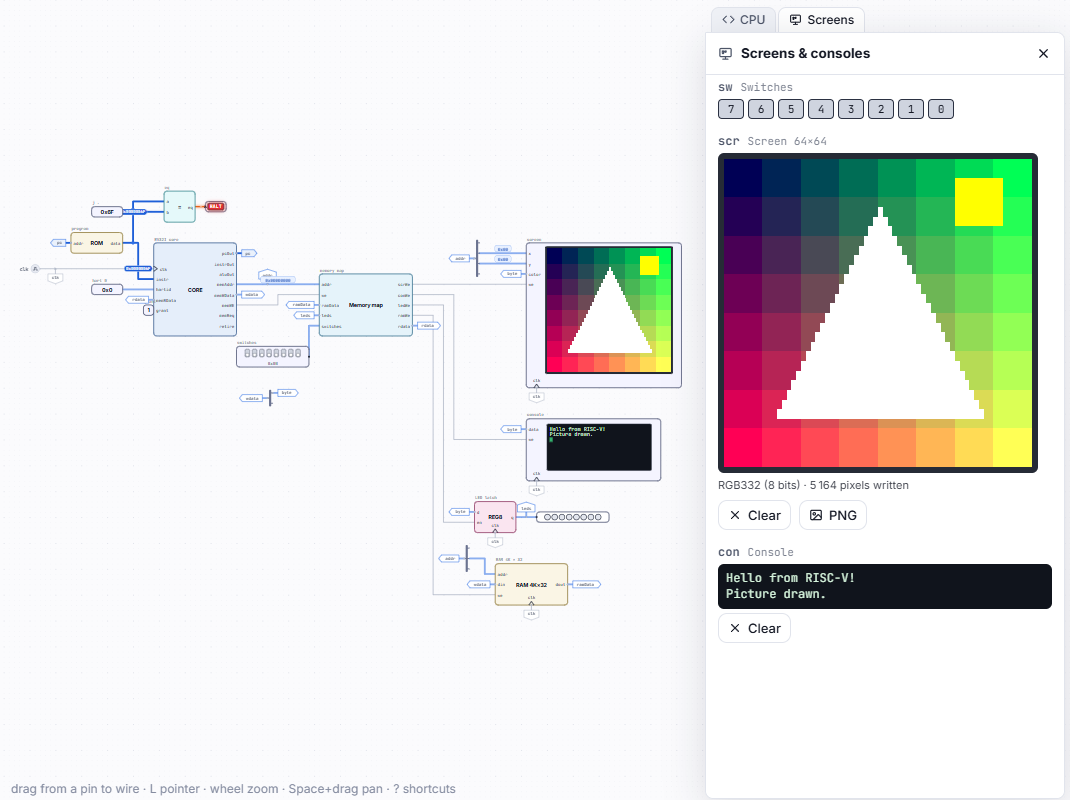
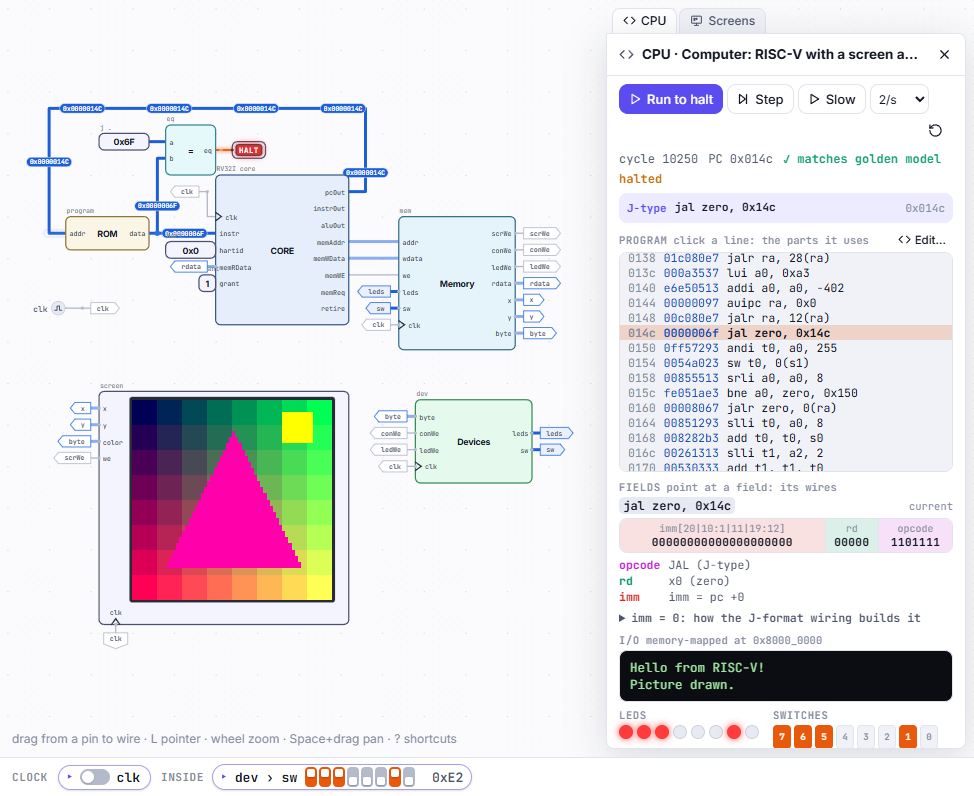
README: the computer as it now looks

diff --git a/README.md b/README.md
@@ -85,7 +85,7 @@ simulator, so whatever you build is a real component of the site. The full guide
 - 21 optional **build challenges**, from a CMOS inverter to an instruction fetch unit, with a test
   player that steps through the failing cases.
 
-![Examples ▸ Computer: an RV32I core, a memory map, RAM, a 64 × 64 screen and a console](docs/images/computer.png)
+![Examples ▸ Computer: an RV32I core, its program ROM, the memory side, a 64 × 64 screen and the devices, with the CPU panel](docs/images/computer.png)
 
 The sandbox now builds a **whole computer**. RAM and ROM parts go up to 64K words: one
 behavioural leaf at run time over a real hierarchy of banks you can open down to the latches.
@@ -94,7 +94,8 @@ console and a switch bank, so a CPU can memory-map them. A cycle engine runs Run
 become verified tables and the rest is levelized, and every net equals the event-driven
 simulator's after every settle. The single-cycle RV32I runs at about 9 k cycles/s in Node and
 4–5 kHz in the browser. **Examples ▸ Computer** puts it all together: the RV32I core, a program
-ROM in assembly, a memory-map chip, 4K words of RAM, the screen, the console, LEDs and switches.
+ROM in assembly, a memory chip (the address decoder and 4K words of RAM), the screen, and a devices
+chip with the console, LEDs and switches (flipped from the I/O bar).
 It greets you, paints a picture in under two seconds and halts, with the golden model checking
 every instruction.
 
